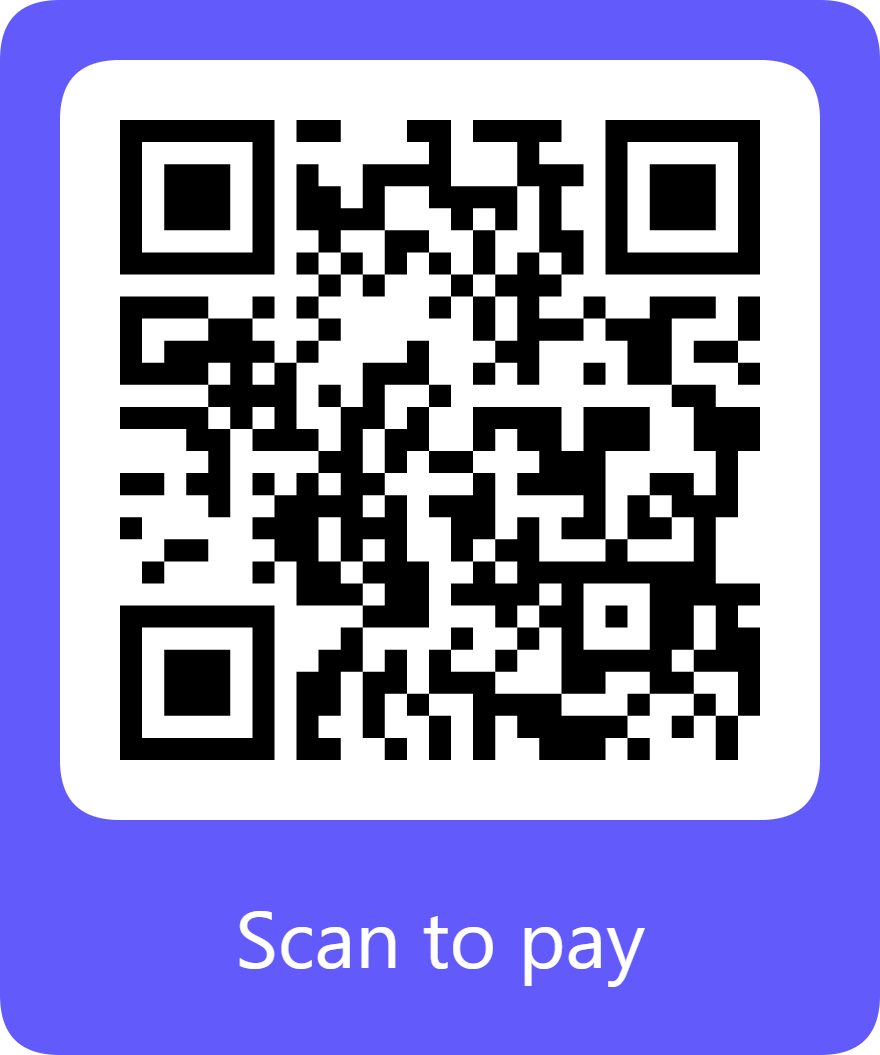
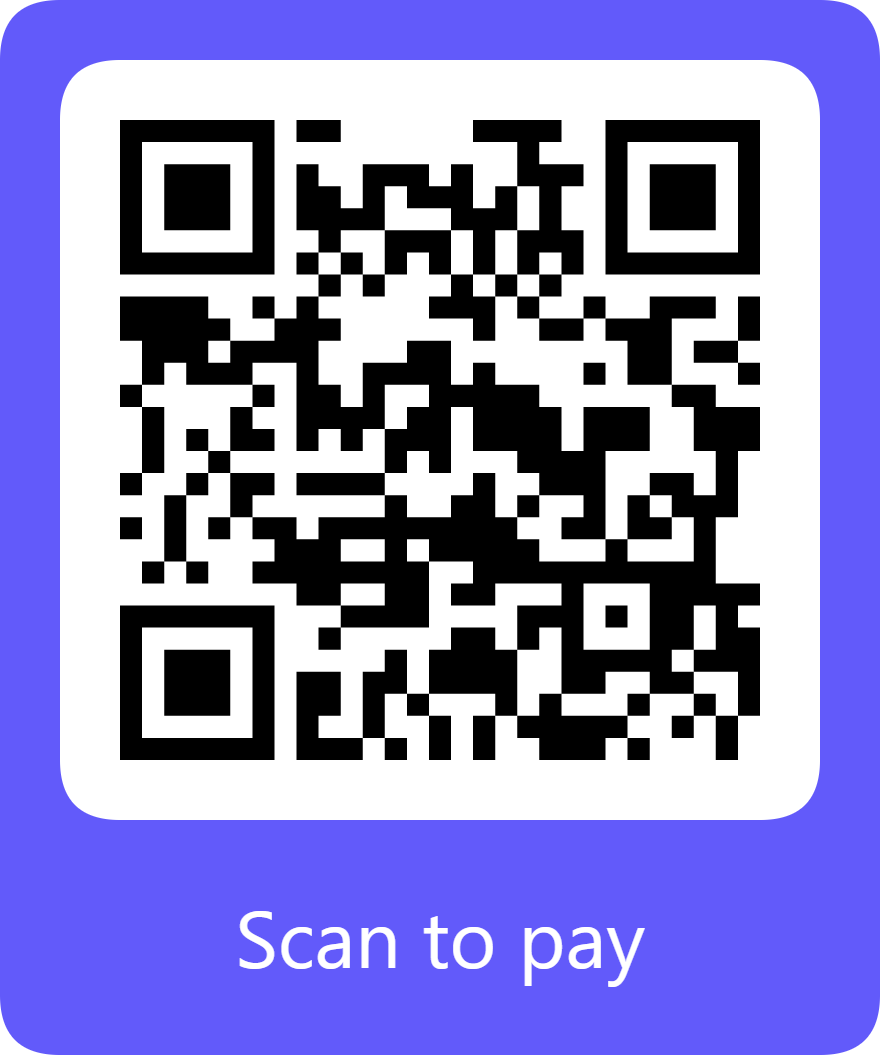
update payment link and pic

diff --git a/index.html b/index.html
@@ -353,8 +353,8 @@
                         <p>American Express</p>
                      </div>
                      <div class="col-6 text-center">
-                        <a href="https://buy.stripe.com/aEUaIn6nC0Hb4yQfYY"><img src="/resources/imgs/scanme.png" alt="" srcset=""></a>
-                        <a href="https://buy.stripe.com/aEUaIn6nC0Hb4yQfYY"><p>Clic o scanea aquí</p></a>
+                        <a href="https://buy.stripe.com/dR67wb7rG2PjfducMN"><img src="/resources/imgs/scanme.png" alt="" srcset=""></a>
+                        <a href="https://buy.stripe.com/dR67wb7rG2PjfducMN"><p>Clic o scanea aquí</p></a>
                      </div>
                  </div>
             </div>
